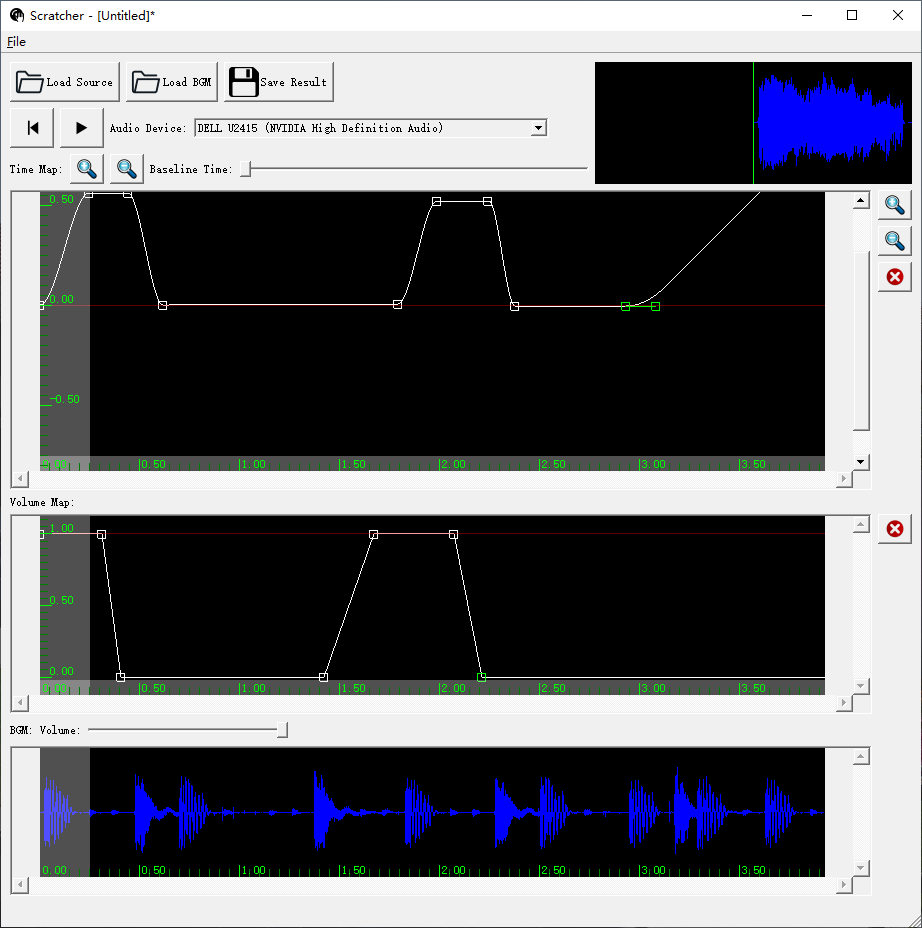
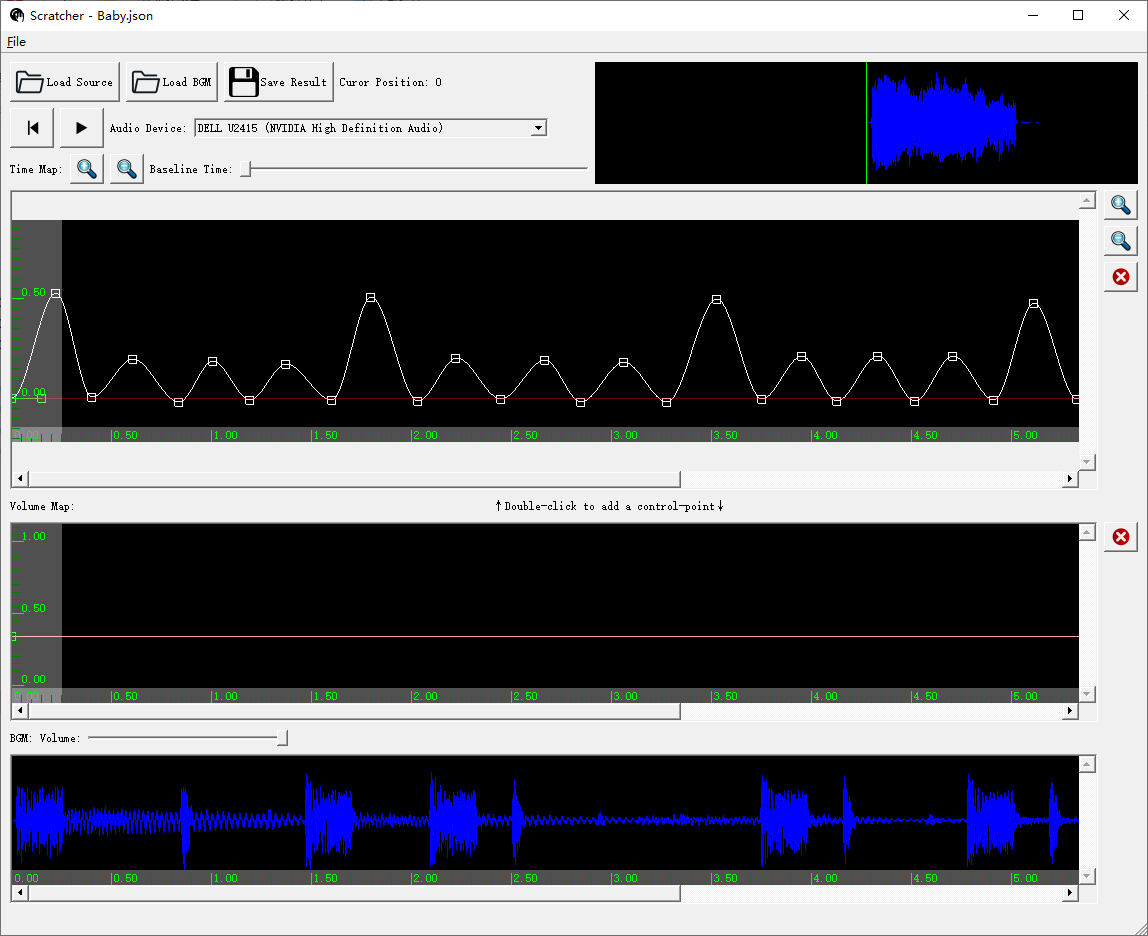
Minor fixes.

diff --git a/ScratcherUI/Scratcher.cpp b/ScratcherUI/Scratcher.cpp
@@ -453,8 +453,15 @@ void Scratcher::SaveResult(const QString& filename)
 	WriteAudioToFile(&buf_out, fn.c_str());
 }
 
+void Scratcher::_set_cursor_pos(double pos)
+{
+	m_cursor_pos = pos;
+	m_ui.label_cursor->setText(QString::number(pos));
+}
+
 void Scratcher::_emit_cursor_pos(double pos)
 {
+	m_ui.label_cursor->setText(QString::number(pos));
 	m_ui.canvas_timemap->set_cursor_pos(pos);
 	m_ui.canvas_timemap->update();
 	m_ui.canvas_volume->set_cursor_pos(pos);
@@ -793,7 +800,7 @@ void Scratcher::Cursor_Moved(double pos)
 {
 	if (!m_is_playing)
 	{
-		m_cursor_pos = pos;
+		_set_cursor_pos(pos);
 		m_ui.canvas_timemap->set_cursor_pos(pos);
 		m_ui.canvas_timemap->update();
 		m_ui.canvas_volume->set_cursor_pos(pos);

diff --git a/ScratcherUI/Scratcher.h b/ScratcherUI/Scratcher.h
@@ -97,5 +97,6 @@ private:
 	bool m_is_playing = false;
 	double m_cursor_pos = 0.0;
 
+	void _set_cursor_pos(double pos);
 	void _emit_cursor_pos(double pos);
 };

diff --git a/README.md b/README.md
@@ -10,6 +10,8 @@ The first curve is a time-map. It controls the back and forth movement of the au
 
 The second curve controls the volume of the sound effect.
 
+A control points can be added to a curve by a double-click, and can be edited by dragging. The time-map curve is a Cubic Hermite Spline (C1 continuous). Therefore, a slope value can be set for each control-point in addition to its position, where a value 0 is most common. The volume curve is simpler. It is piecewise linear (C0 continuous).
+
 Optionally, the sound-effect can be mixed with a BGM in real time.
 
 DJ Scratching resources can be found on internet, for example:
@@ -22,7 +24,7 @@ DJ Scratching resources can be found on internet, for example:
 
 ## Building from Source-code
 
-1. Download Dependencies
+### Download Dependencies
 
 * Qt5
 
@@ -54,12 +56,12 @@ $ sudo apt install ffmpeg
 $ sudo apt install libavformat-dev
 ```
 
-2. Clone the repository
+### Clone the repository
 ```
 git clone https://github.com/fynv/Scratcher.git
 ```
 
-3. Create a "build" folder and build with CMake
+### Create a "build" folder and build with CMake
 
 For Windows, the variables "FFMPEG_ROOT" and "QT_ROOT" need to be set according to where the dependencies are installed. For Linux, these are not needed if the dependencies are installed to system locations (/usr/ for example).
 
